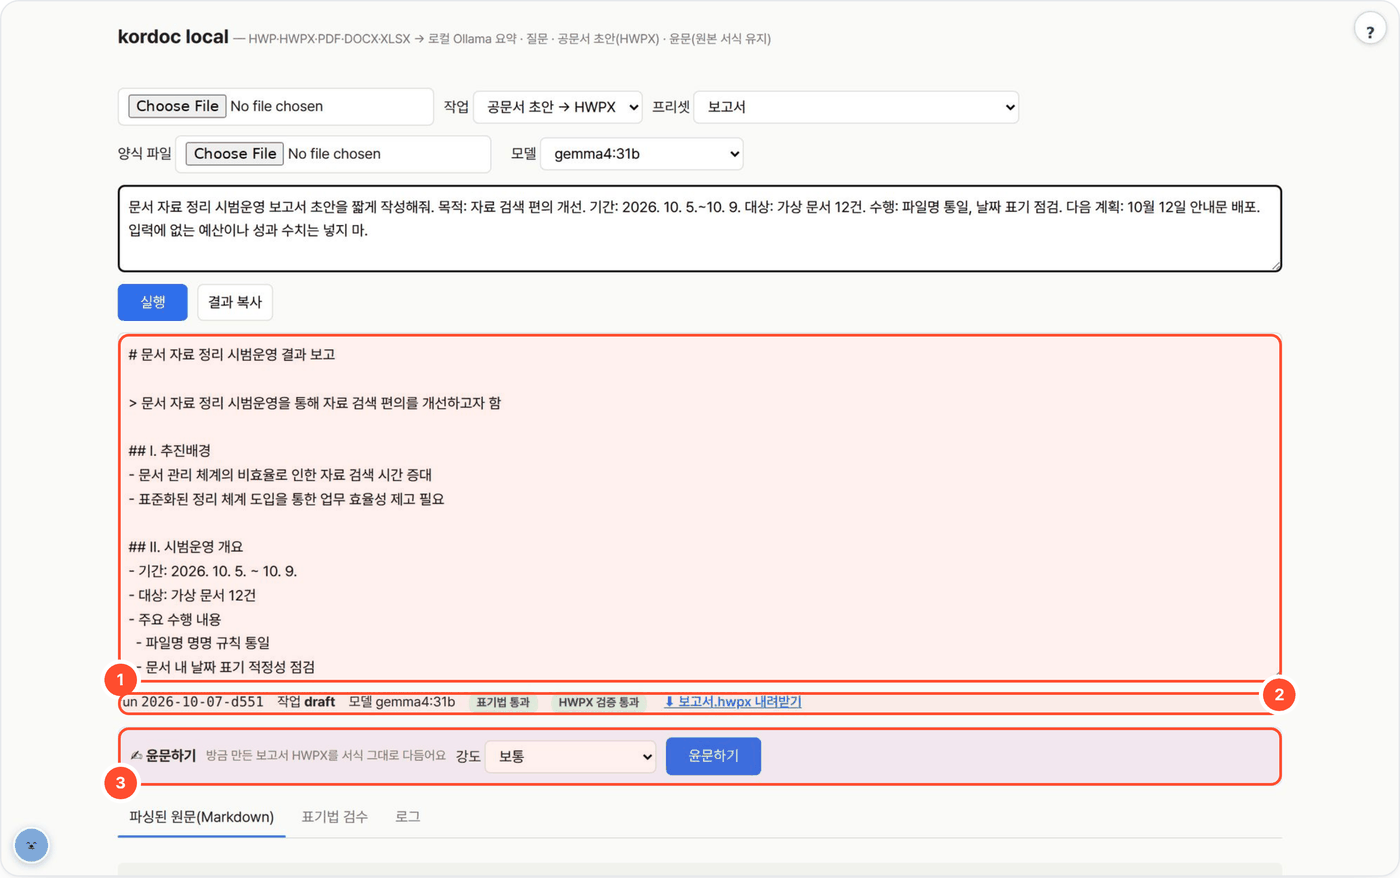
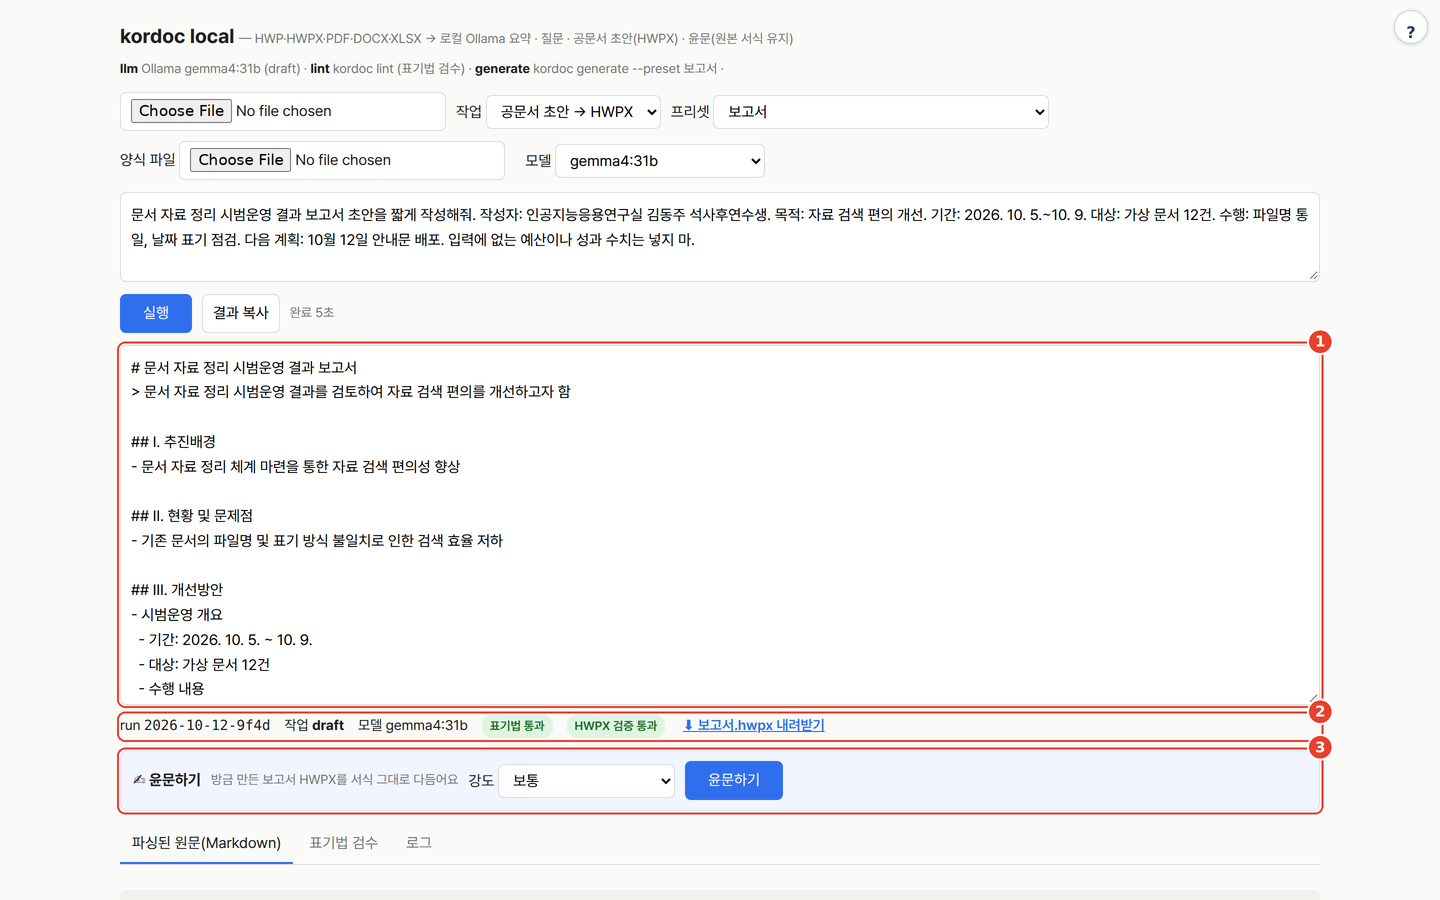
README 사용 화면·예시를 보고서 프리셋 실행으로 교체 (기관 고정값이 화면에 나오지 않게)

Changed region(s): [[0.0614, 0.3075, 0.9214, 0.9841], [0.0614, 0.0308, 0.9214, 0.2768], [0.0, 0.9226, 0.0307, 0.9841]]

diff --git a/README.md b/README.md
@@ -26,24 +26,43 @@ HWP·HWPX·PDF·DOCX·XLSX 문서를 로컬 LLM으로 요약하거나 질문에 
 
 ## 예시
 
-가상 자료 정리 사례를 `gemma4:31b` · 작업 "공문서 초안 → HWPX" · 프리셋 보고서로 실제 실행했습니다(파일 없이 요청만).
+가상 자료 정리 사례를 `gemma4:31b` · 작업 "공문서 초안 → HWPX" · 프리셋 보고서로 실제 실행했습니다(파일 없이 요청만, 약 5초).
 
 요청:
 
 ```text
-문서 자료 정리 시범운영 보고서 초안을 짧게 작성해줘. 목적: 자료 검색 편의 개선. 기간: 2026. 10. 5.~10. 9. 대상: 가상 문서 12건. 수행: 파일명 통일, 날짜 표기 점검. 다음 계획: 10월 12일 안내문 배포. 입력에 없는 예산이나 성과 수치는 넣지 마.
+문서 자료 정리 시범운영 결과 보고서 초안을 짧게 작성해줘. 작성자: 인공지능응용연구실 김동주 석사후연수생. 목적: 자료 검색 편의 개선. 기간: 2026. 10. 5.~10. 9. 대상: 가상 문서 12건. 수행: 파일명 통일, 날짜 표기 점검. 다음 계획: 10월 12일 안내문 배포. 입력에 없는 예산이나 성과 수치는 넣지 마.
 ```
 
-결과 `보고서.hwpx` (HWPX 구조 검증 통과) 본문 발췌:
+결과 `보고서.hwpx` (표기법 검수 통과 · HWPX 구조 검증 통과) 본문:
 
 ```text
-문서 자료 정리 시범운영 결과 보고
-기간: 2026. 10. 5. ~ 10. 9.
-대상: 가상 문서 12건
-향후 계획: 2026. 10. 12. 안내문 배포 예정
+# 문서 자료 정리 시범운영 결과 보고서
+> 문서 자료 정리 시범운영 결과를 검토하여 자료 검색 편의를 개선하고자 함
+
+## Ⅰ. 추진배경
+- 문서 자료 정리 체계 마련을 통한 자료 검색 편의성 향상
+
+## Ⅱ. 현황 및 문제점
+- 기존 문서의 파일명 및 표기 방식 불일치로 인한 검색 효율 저하
+
+## Ⅲ. 개선방안
+- 시범운영 개요
+  - 기간: 2026. 10. 5. ~ 10. 9.
+  - 대상: 가상 문서 12건
+  - 수행 내용
+    - 파일명 통일 작업 수행
+    - 날짜 표기 적정성 점검 및 수정
+
+## Ⅳ. 기대효과
+- 표준화된 문서 관리 체계 적용으로 자료 접근성 및 검색 속도 개선
+
+## Ⅴ. 행정사항
+- 향후 계획: 2026. 10. 12. 안내문 배포 예정
+- 작성자: 인공지능응용연구실 김동주 석사후연수생
 ```
 
-날짜 범위의 물결표 앞뒤 공백에 표기 경고 1건이 남았습니다. 구조 검증과 내용 검토는 각각 확인하세요.
+"추진배경"·"현황 및 문제점"·"기대효과" 문장은 입력에 없던 내용을 모델이 채운 것입니다. 구조 검증과 내용 검토는 각각 확인하세요.
 
 <details><summary>입력 화면</summary>
 
